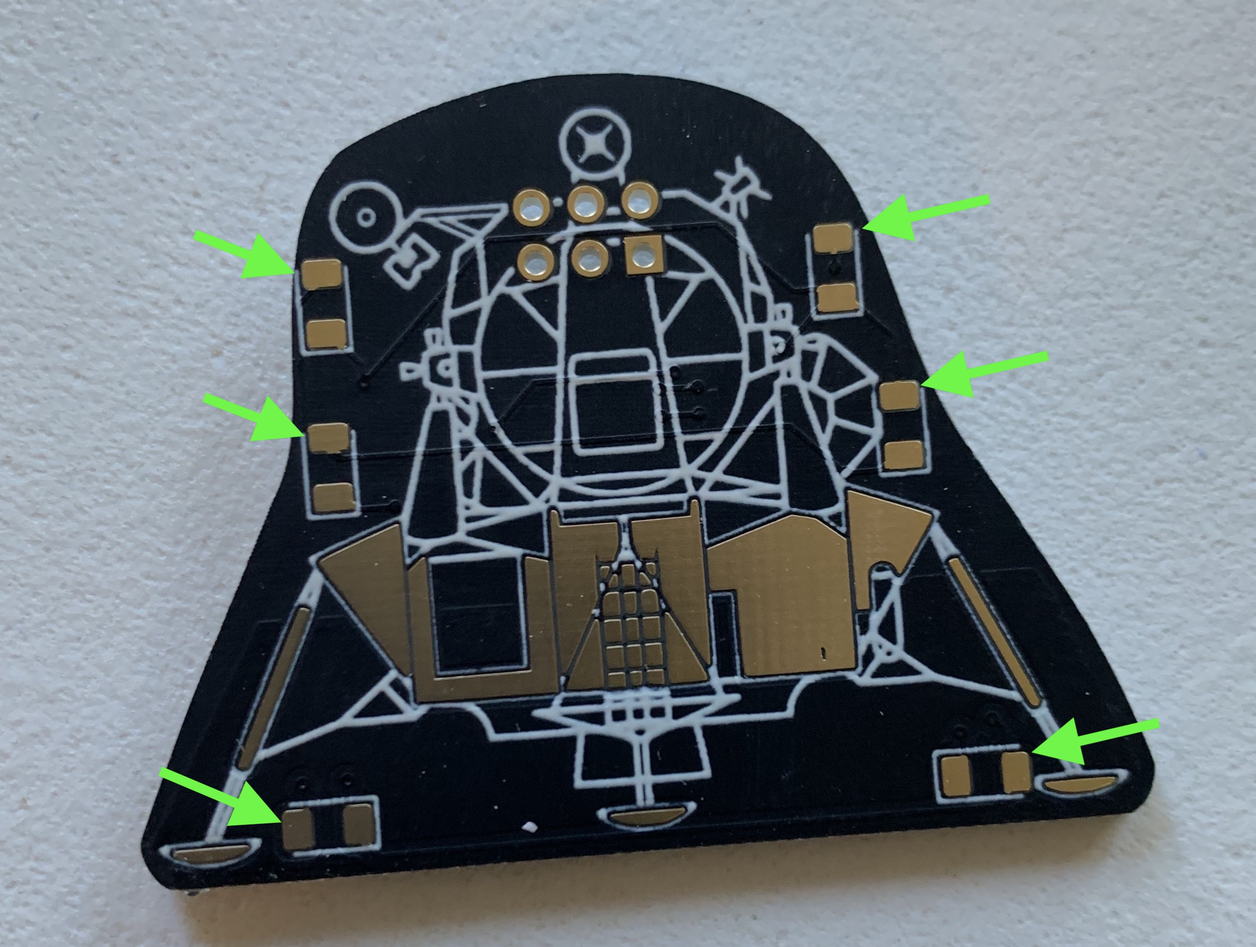
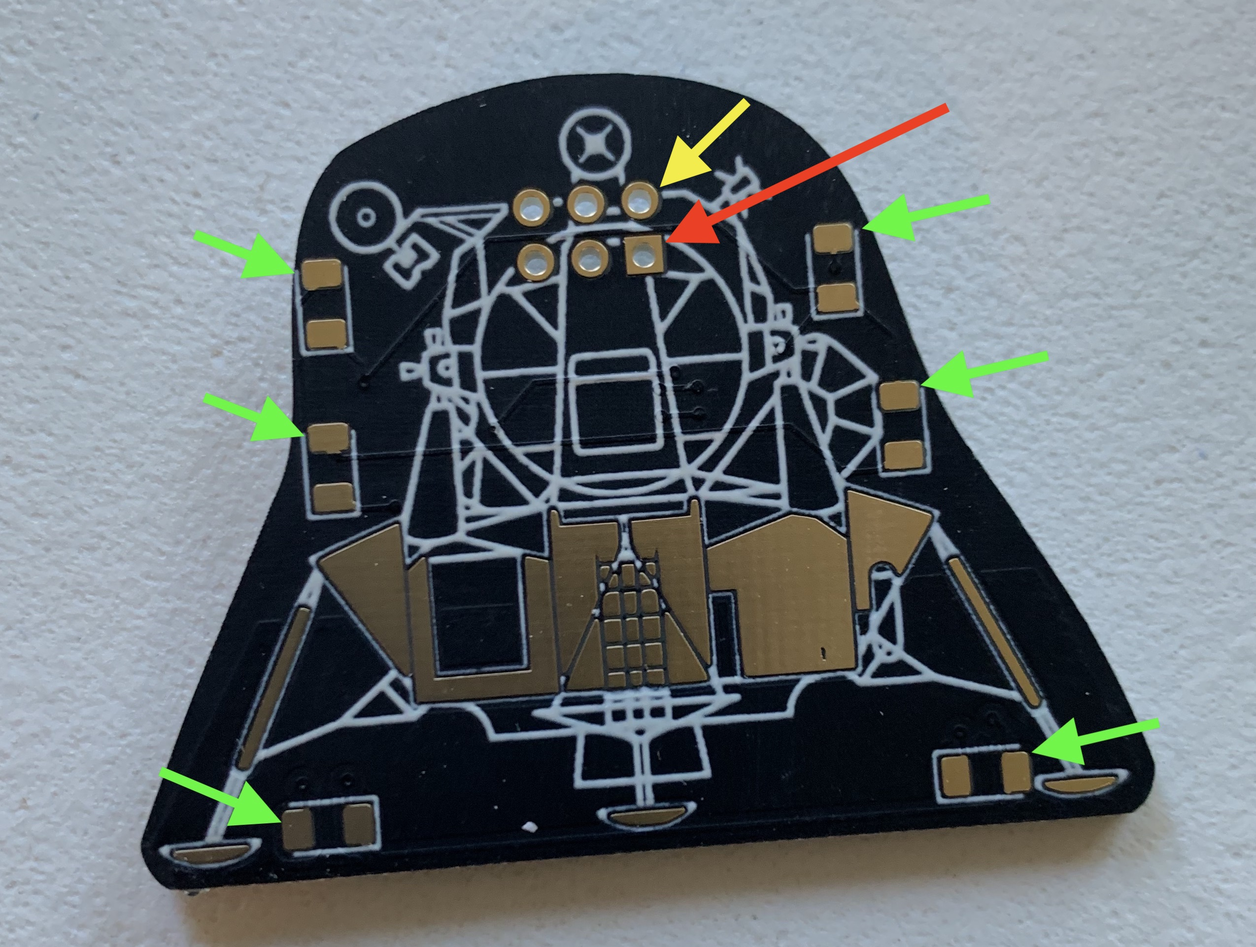
add

Changed region(s): [[0.5269, 0.0937, 0.6199, 0.281], [0.6818, 0.0937, 0.7748, 0.1561], [0.5889, 0.1561, 0.6818, 0.2185]]

diff --git a/README.md b/README.md
@@ -1,6 +1,6 @@
 # LunarLanderSAO
 
-A SAO for the Lunar Lander badge
+A SAO for the Lunar Lander badge (or other badges supporting the 1.69bis SAO standard).
 
 The schematic is [here](/schematic.pdf "here").
 
@@ -20,3 +20,10 @@ The SAO connector is a keyed connector that provides power for the badge.  Some 
 The connector is simple through-hole soldering.
 
 ![Connector](/images/connectorAttached.jpg "connector attached")
+
+## Hacking the SAO
+
+The SAO only uses power and ground connections from the badge.  The red arrow indicates the power connection; the yellow is ground.  If you want to use a different way of powering the SAO, these are the wires you need.  The SAO needs 3.3V, and could be powered by a 3V coin cell battery if you want.
+
+We programmed the SAO's attiny85 using a 8 pin SOIC clip with a TinyUSB programmer, and Arduino IDE. You'll need to download the attiny85 driver for Arduino because it is not included.
+
